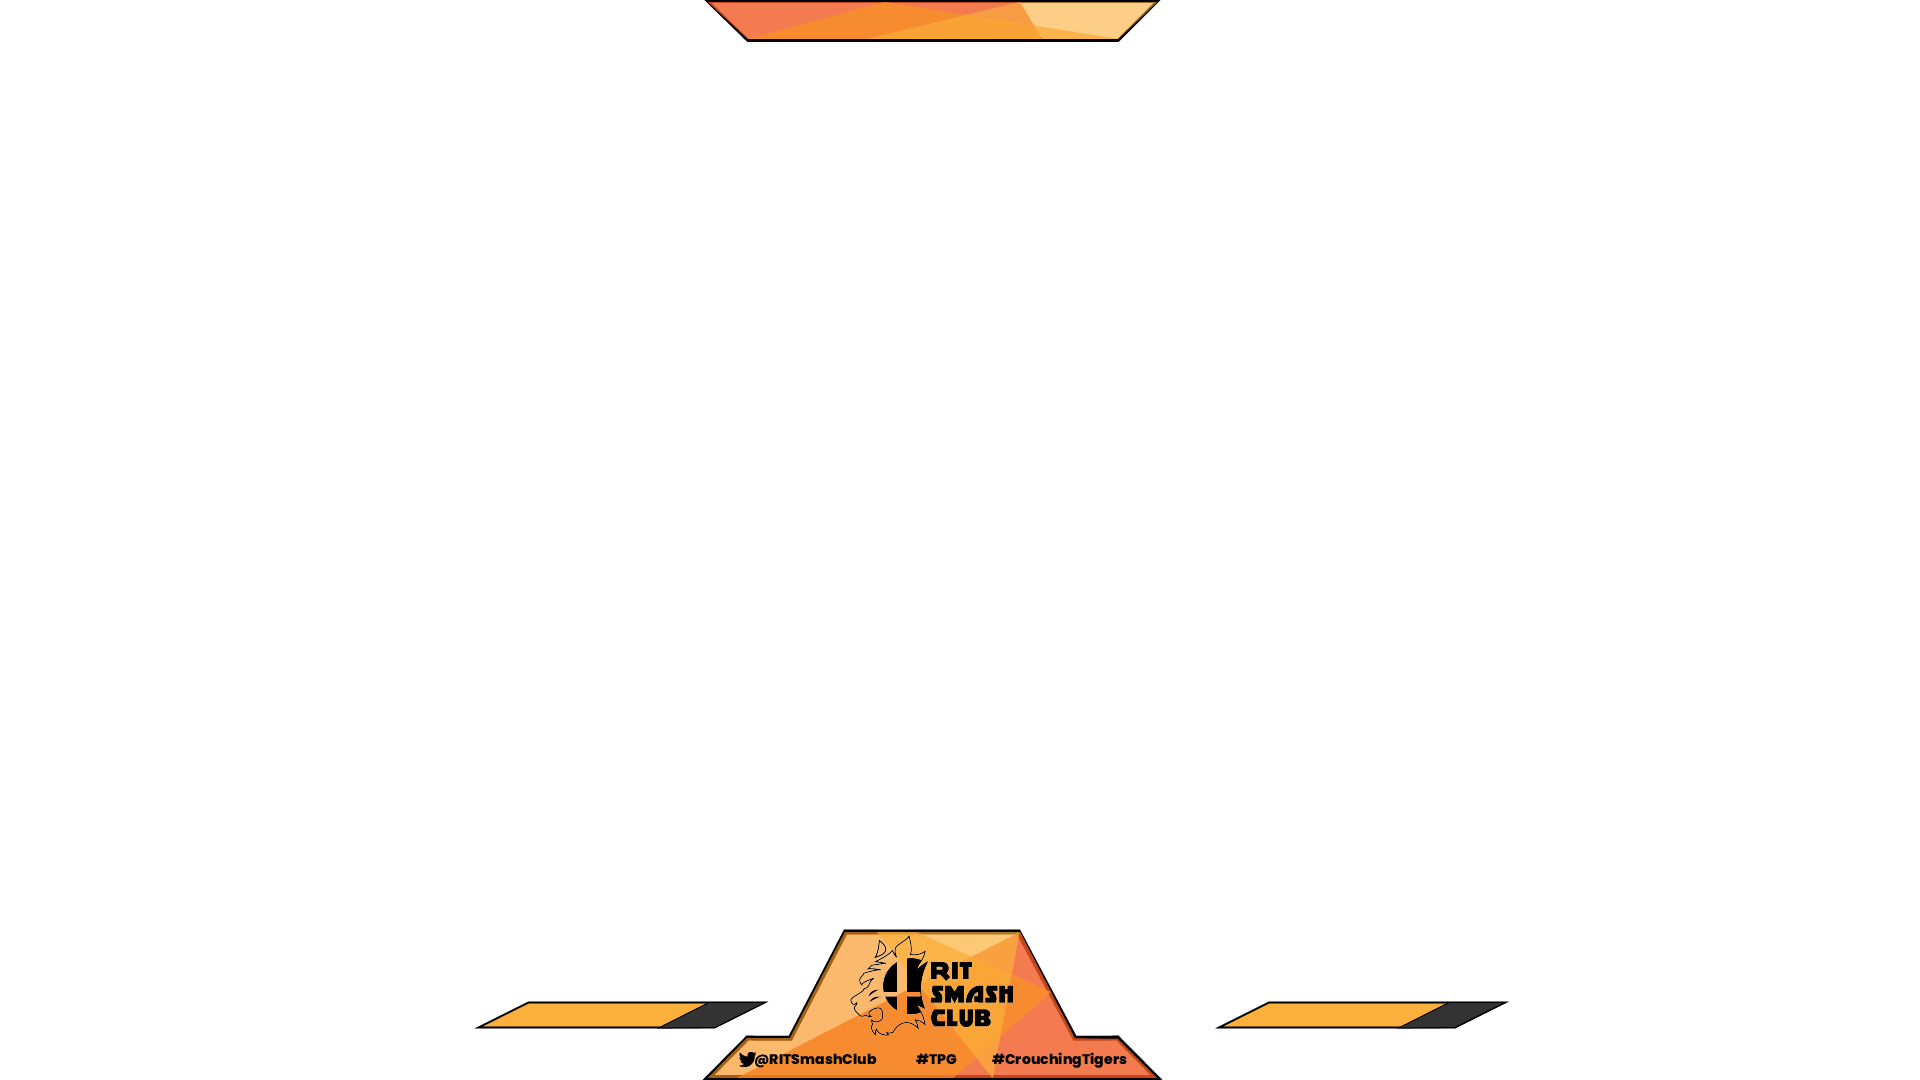
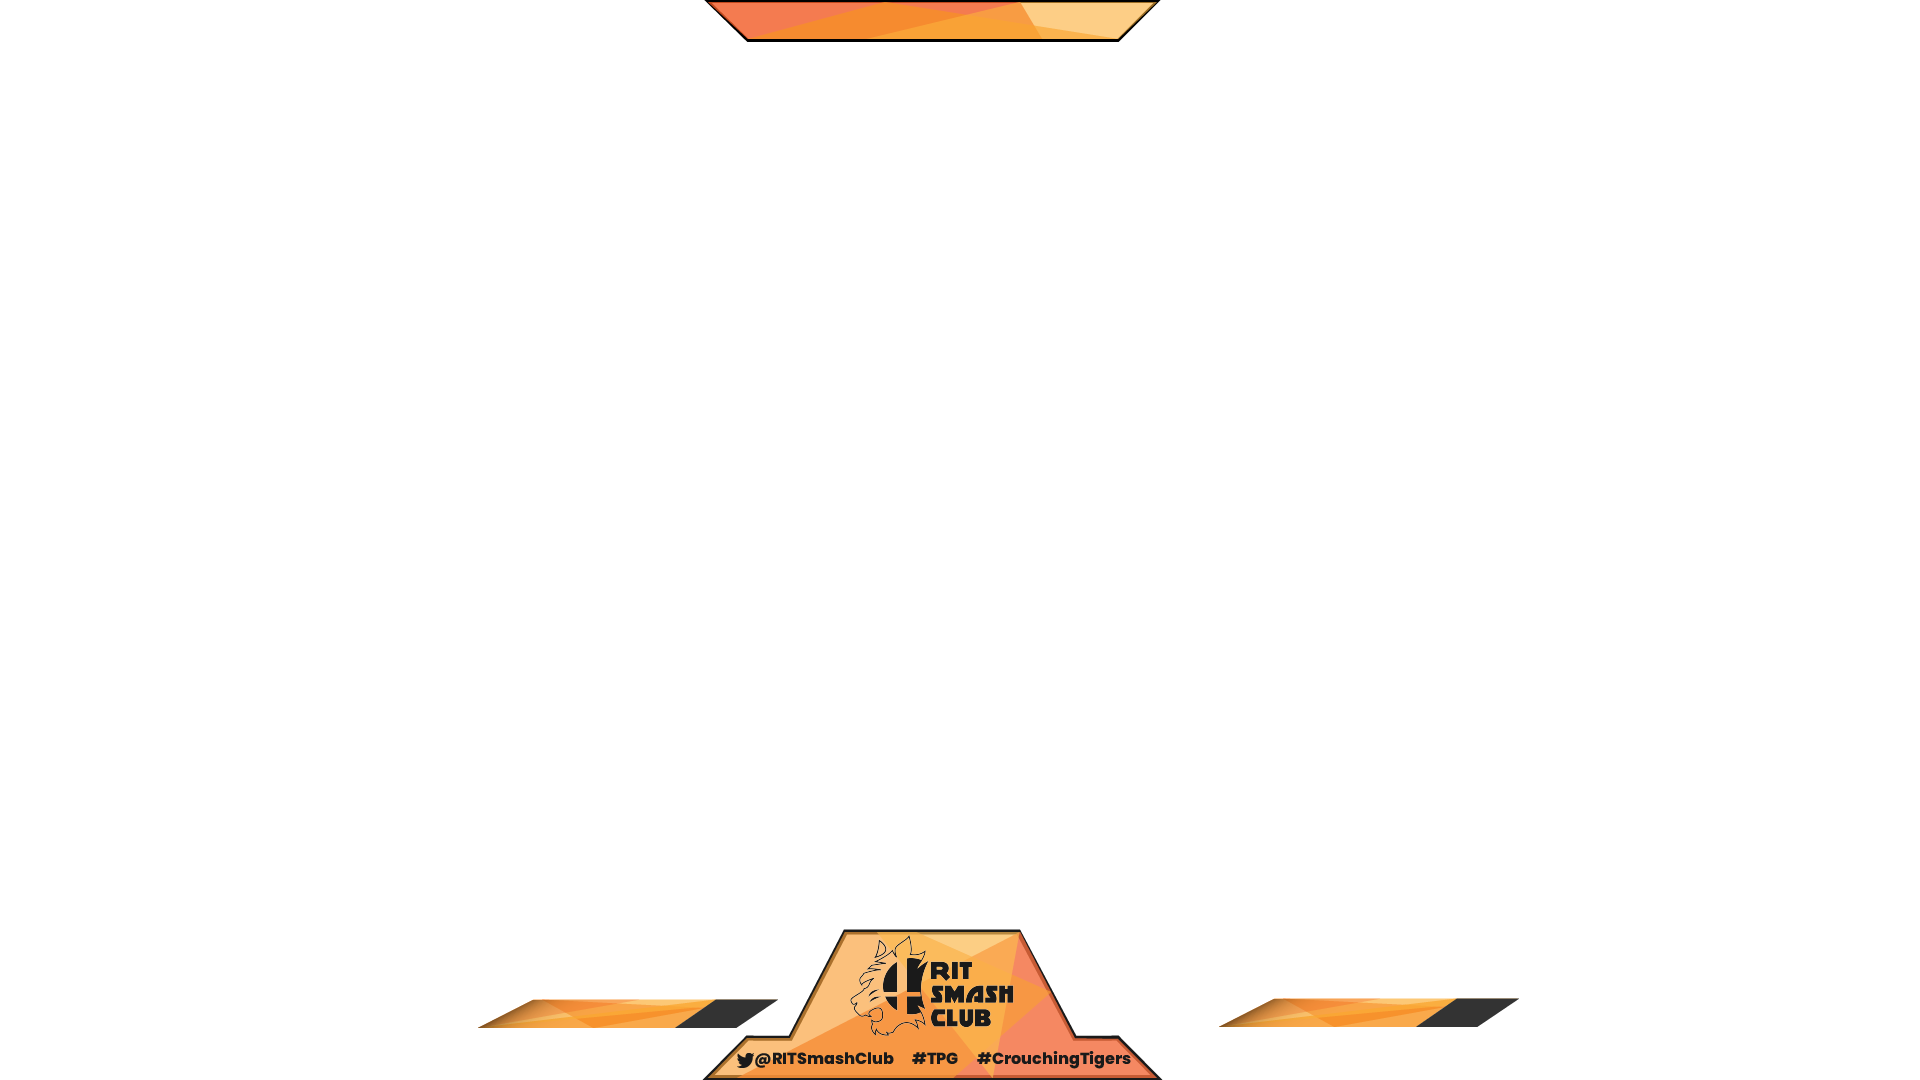
Modified thumbnail gen, removed XSS

Changed region(s): [[0.25, 0.8861, 0.5938, 1.0], [0.625, 0.9167, 0.7812, 0.9778]]

diff --git a/graphics/js/set-info.js b/graphics/js/set-info.js
@@ -34,6 +34,8 @@ $(() => {
 		var p1score = $('.player1-score');
 		var player2name = $('.player2-tag');
 		var p2score = $('.player2-score');
+		var commentary1 = $('.commentator-1');
+		var commentary2 = $('.commentator-2');
 
 
 		var player1score = nodecg.Replicant("player1Score", bundle);
@@ -43,18 +45,27 @@ $(() => {
 			if (newVal)
 				updateFields(newVal);
 		});
-
+		player1score.on('change', (newVal, oldVal) => {
+			if (newVal)
+				updateFields(newVal);
+		});
+		player2score.on('change', (newVal, oldVal) => {
+			if (newVal)
+				updateFields(newVal);
+		});
 		function updateFields(setData){
 
-			bracketlocation.html(setData.bracketlocation);
-			player1name.html(setData.player1tag);
-			player2name.html(setData.player2tag);
+			bracketlocation.text(setData.bracketlocation);
+			player1name.text(setData.player1tag);
+			player2name.text(setData.player2tag);
+			commentary1.text(setData.commentator1);
+			commentary2.text(setData.commentator2);
 			NodeCG.waitForReplicants(player1score, player2score).then(() => {
-				p1score.html(player1score.value);
-				p2score.html(player2score.value);
+				p1score.text(player1score.value);
+				p2score.text(player2score.value);
 			});
-			FixSize('.player1-tag');
-			FixSize('.player2-tag');
+			toFix = ['.player1-tag', '.player2-tag', '.commentator-1', '.commentator-2']
+			toFix.map(FixSize)
 		}
 	}
 })

diff --git a/graphics/css/layout.css b/graphics/css/layout.css
@@ -27,58 +27,48 @@ body{
 	font-size: 28px;
 	text-align: center;
 }
-.player-info{
-	position: absolute;
-	display: inline-block;
-	bottom: 5px;
-}
 .player1-info{
 	position: absolute;
+	text-align: center;
 	width: 185px;
 	left: 530px;
-	bottom: 15px;
+	bottom: 18px;
 }
 .player1-tag{
 	position: absolute;
-	text-align: center;
-	vertical-align: middle;
-	bottom: 35.5px;
-	height: 35px;
-	line-height: 45px;
-	width: 145px;
+	bottom: 38px;
+	height: 20px;
+	line-height: 20px;
+	width: 150px;
 }
 .player1-score{
 	position: absolute;
 	color: orange;
-	text-align: center;
-	bottom: 29.5px;
+	bottom: 30px;
 	width: 30px;
 	left: 180px;
-	font-size: 22px;
+	font-size: 24px;
 }
 .player2-info{
 	position: absolute;
+	text-align: center;
 	width: 185px;
 	left: 1270px;
-	bottom: 15px;
+	bottom: 18px;
 }
 .player2-tag{
 	position: absolute;
-
-	text-align: center;
-	vertical-align: middle;
-	bottom: 35.5px;
-	height: 35px;
-	line-height: 45px;
-	width: 145px;
+	bottom: 38px;
+	height: 20px;
+	line-height: 20px;
+	width: 150px;
 
 }
 .player2-score{
 	position: absolute;
 	color: orange;
-	text-align: center;
-	bottom: 29.5px;
+	bottom: 30px;
 	width: 30px;
-	font-size: 22px;
 	left: 180px;
+	font-size: 24px;
 }

diff --git a/graphics/css/break.css b/graphics/css/break.css
@@ -1,0 +1,73 @@
+@font-face {
+	font-family: Poppins-ExtraBold;
+	src: url("../font/Poppins-ExtraBold.ttf");
+}
+
+body{
+	box-sizing: border-box;
+	padding: 0;
+	margin: 0;
+}
+.wrapper{
+	display: block;
+	background: url("../images/break.png");
+	font-family: Poppins-ExtraBold;
+	width: 1920px;
+	height: 1080px;
+	font-size: 18px;
+	position: relative;
+}
+
+.players{
+	position: absolute;
+	text-align: center;
+	color: white;
+	font-size: 36px;
+	height: 35px;
+	line-height: 35px;
+}
+.player1-tag{
+	position: absolute;
+	left: 1375px;
+	top: 330px;
+	width: 285px;
+}
+.player1-score{
+	position: absolute;
+	left: 1660px;
+	top: 330px;
+	width: 50px;
+}
+
+.player2-tag{
+	position: absolute;
+	left: 1450px;
+	top: 400px;
+	width: 285px;
+}
+.player2-score{
+	position: absolute;
+	left: 1735px;
+	top: 400px;
+	width: 50px;
+}
+.commentators{
+	position: absolute;
+	text-align: center;
+	color: white;
+	font-size: 36px;
+	height: 35px;
+	line-height: 35px;
+}
+.commentator-1{
+	position: absolute;
+	width: 320px;
+	top: 175px;
+	left: 1500px;
+}
+.commentator-2{
+	position: absolute;
+	width: 320px;
+	top: 245px;
+	left: 1425px;
+}

diff --git a/graphics/break.html b/graphics/break.html
@@ -1,0 +1,35 @@
+<!doctype html>
+<html>
+<head>
+
+	<meta charset="utf-8">
+	<title>RIT Smash Club Break Screen</title>
+	<link rel="stylesheet" href="css/break.css">
+
+	<script src="https://ajax.googleapis.com/ajax/libs/jquery/3.3.1/jquery.min.js"></script>
+	<script src="https://cdnjs.cloudflare.com/ajax/libs/gsap/latest/TweenMax.min.js"></script>
+
+	<script src="js/set-info.js"></script>
+
+</head>
+<body>
+
+<div class="layout-container">
+	<div class="wrapper">
+		<div class="commentators">
+			<div class="commentator-1"></div>
+			<div class="commentator-2"></div>
+		</div>
+		<div class="players">
+			<div class="player1-tag"></div>
+			<div class="player1-score"></div>
+			<div class="player2-tag"></div>
+			<div class="player2-score"></div>
+		</div>
+	</div>
+</div>
+
+
+
+</body>
+</html>

diff --git a/graphics/js/thumbnail-gen.js b/graphics/js/thumbnail-gen.js
@@ -57,9 +57,9 @@ $(() => {
 
 		function updateFields(setData){
 			thumbFileName = setData.player1tag + "_" + setData.player2tag + "_" + setData.bracketlocation + ".png";
-			bracketlocation.html(setData.bracketlocation);
-			player1name.html(setData.player1tag);
-			player2name.html(setData.player2tag);
+			bracketlocation.text(setData.bracketlocation);
+			player1name.text(setData.player1tag);
+			player2name.text(setData.player2tag);
 			var linkToRender = "../../nodecg-smashcontrol/dashboard/images/" + setData.game + "/renders/";
 			player1char.children().attr("src", (linkToRender + setData.player1character + ".png"));
             player2char.children().attr("src", (linkToRender + setData.player2character + ".png"));

diff --git a/graphics/thumbnail.html b/graphics/thumbnail.html
@@ -23,7 +23,7 @@
 		</div>
 		<div class="layout-images">
 			<div class="image background-image"><img src="images/thumbnail-bg.png"></div>
-			<div class="image foreground-image"><img src="images/thumbnail-fg-tpg.png"></div>
+			<div class="image foreground-image"><img src="images/thumbnail-fg-ct.png"></div>
 		</div>
 		
 		<div class="renders">
